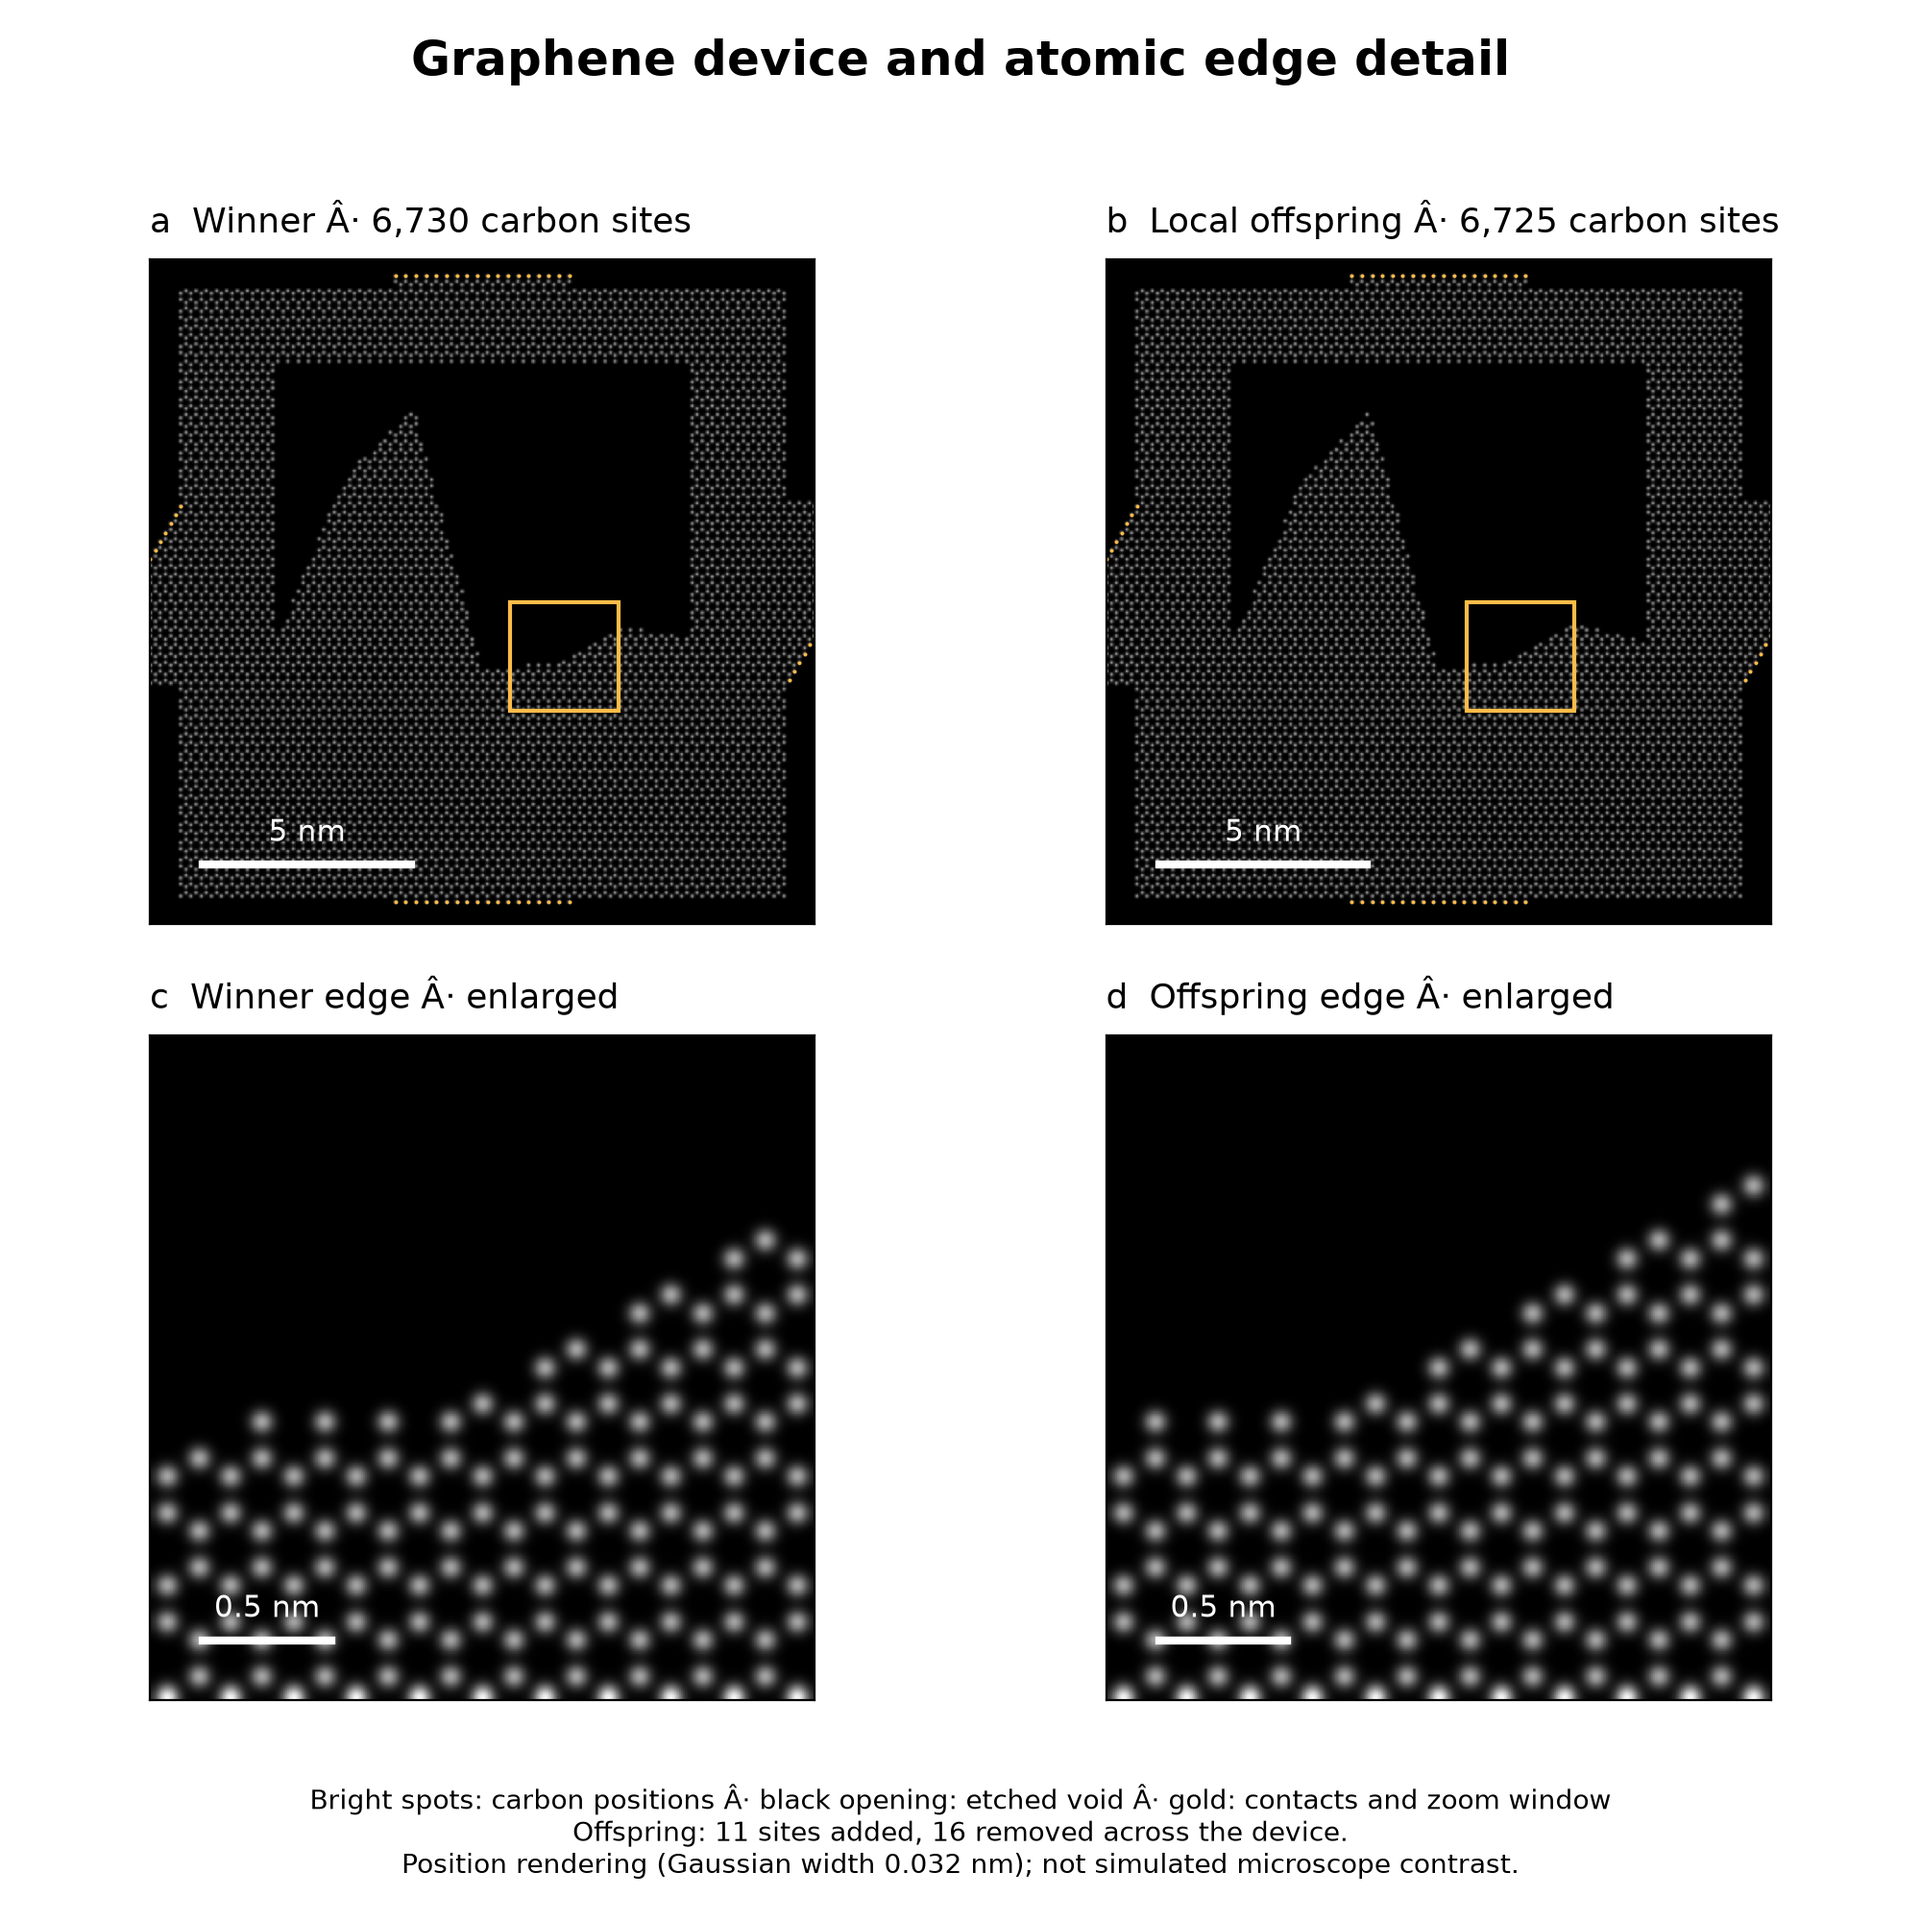
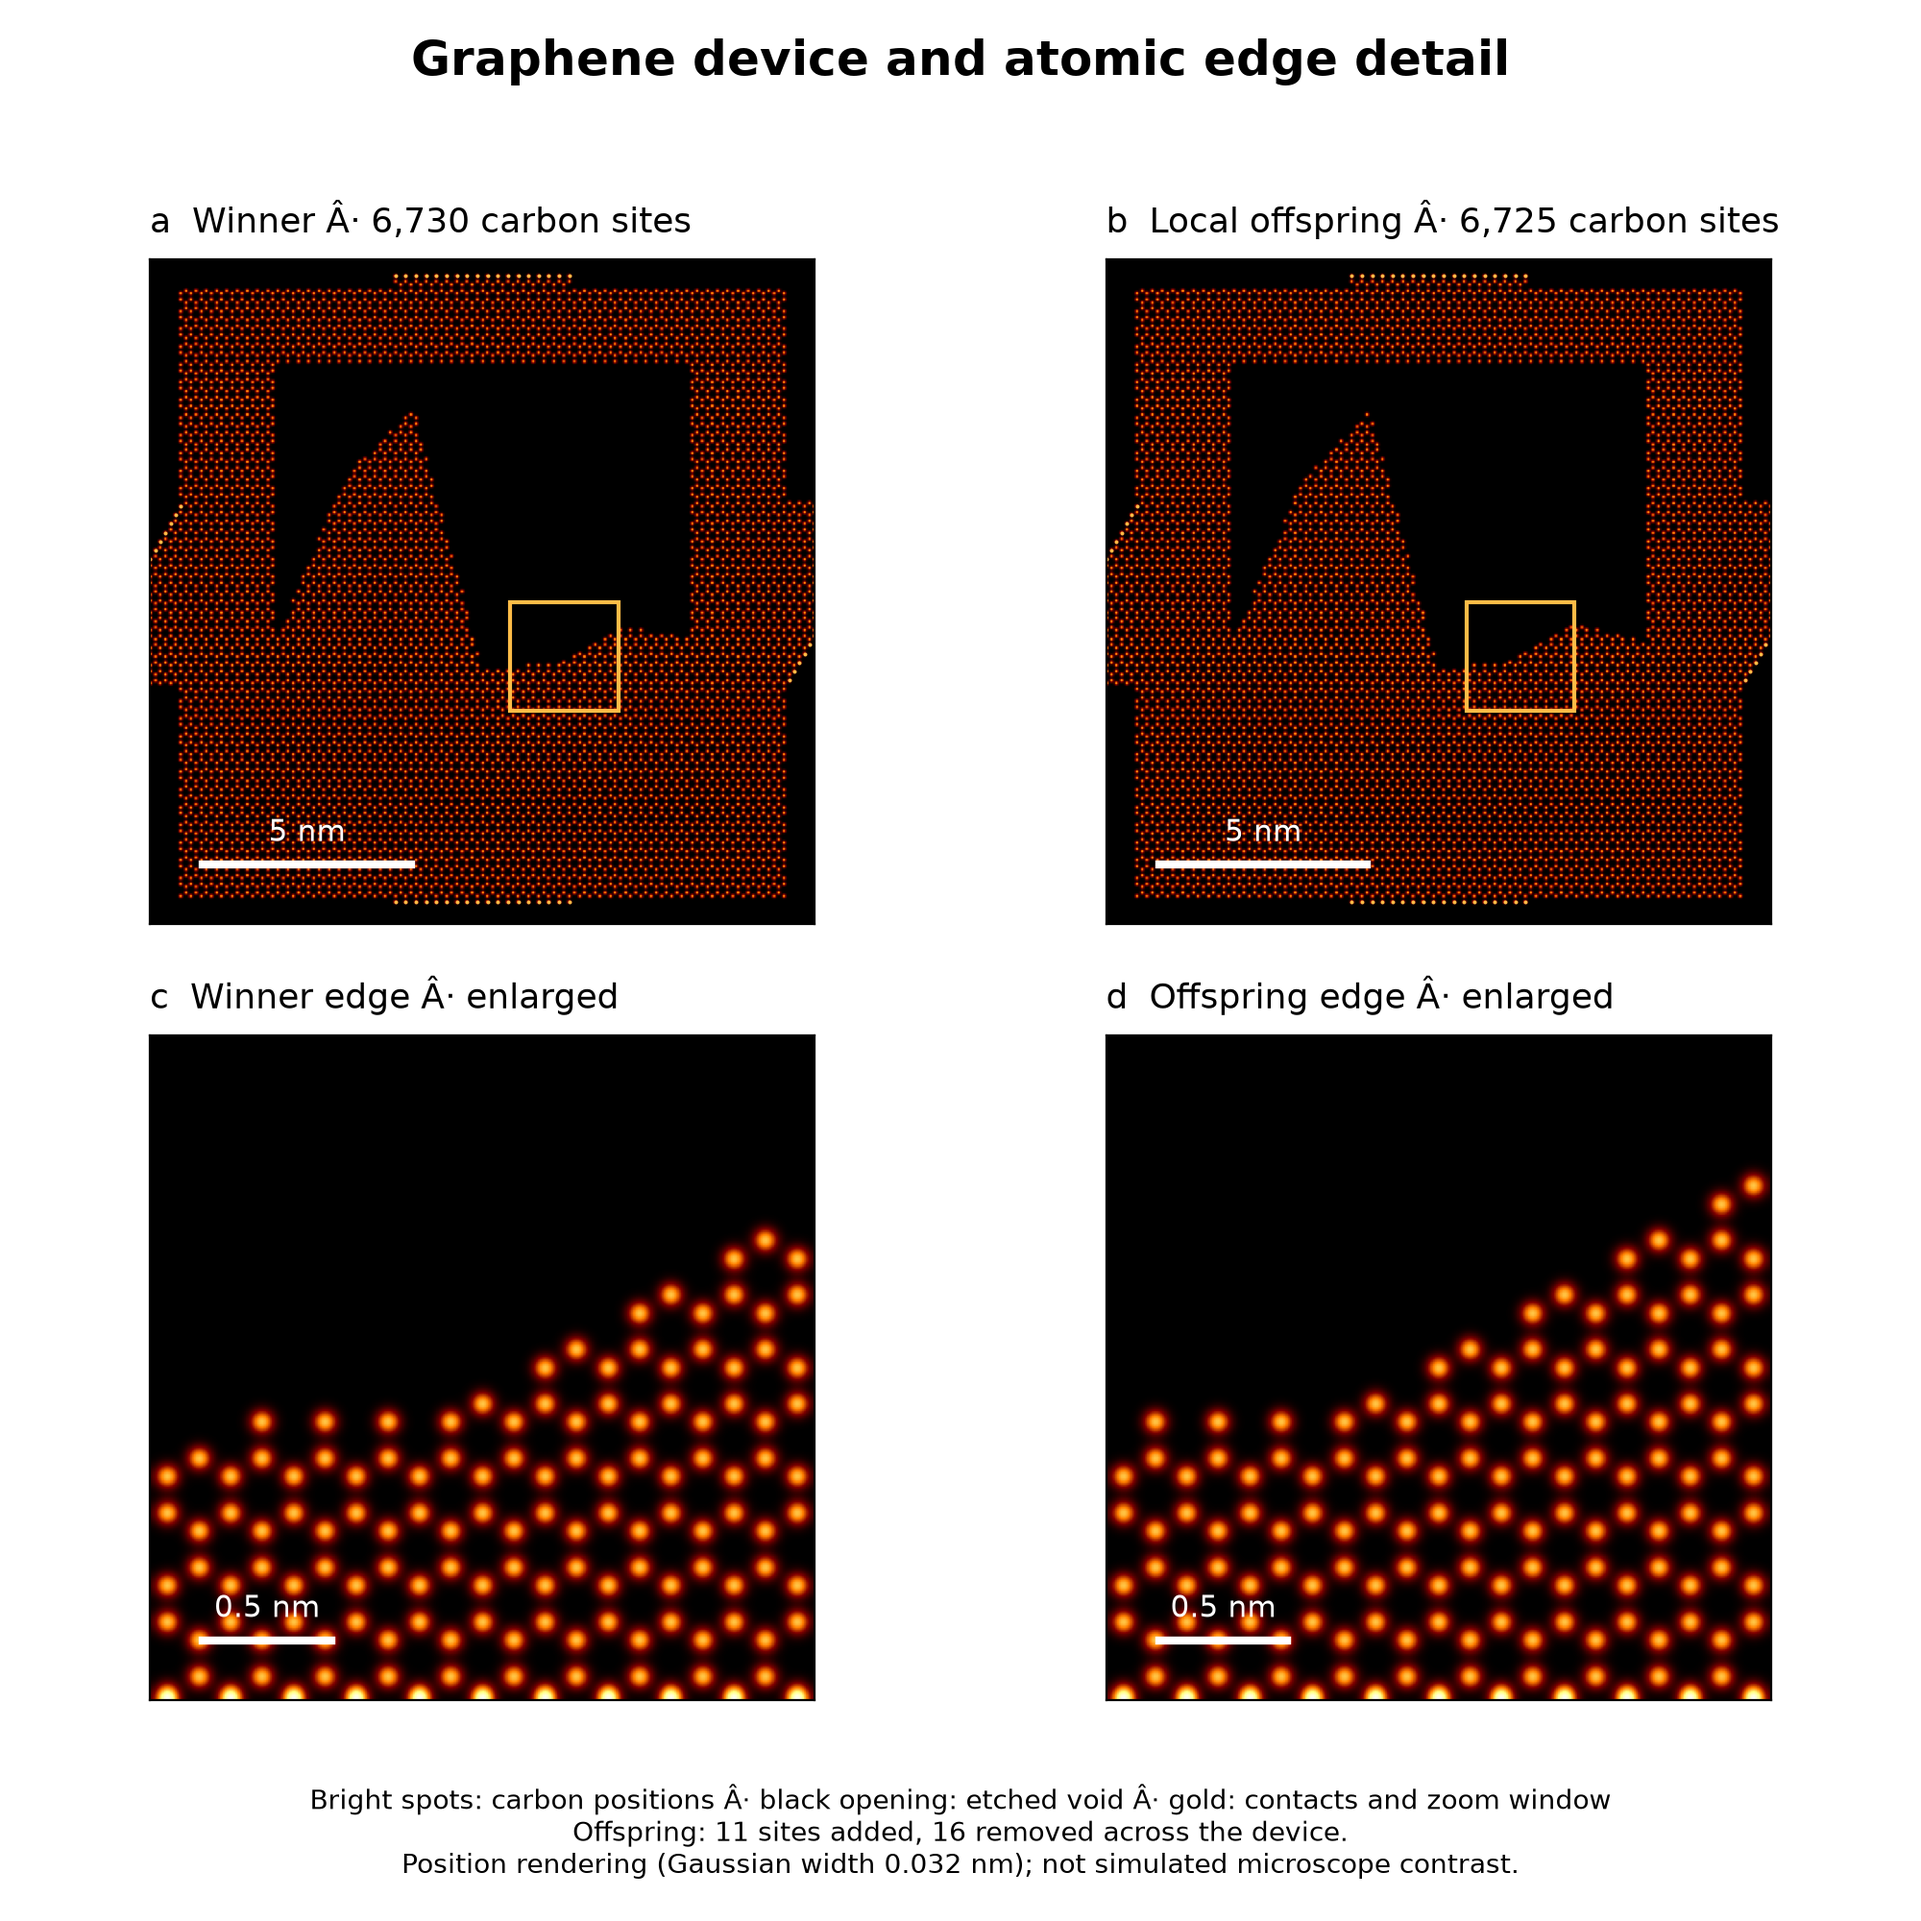
Use warm orange atomic position palette

diff --git a/ballistic_lab/reporting/atomic_view.py b/ballistic_lab/reporting/atomic_view.py
@@ -43,7 +43,7 @@ def draw(ax, data: dict, title: str, bounds=(-8, 8, -8, 8)) -> None:
         density,
         origin="lower",
         extent=bounds,
-        cmap="gray",
+        cmap="afmhot",
         vmin=0,
         vmax=density.max(),
         interpolation="nearest",
